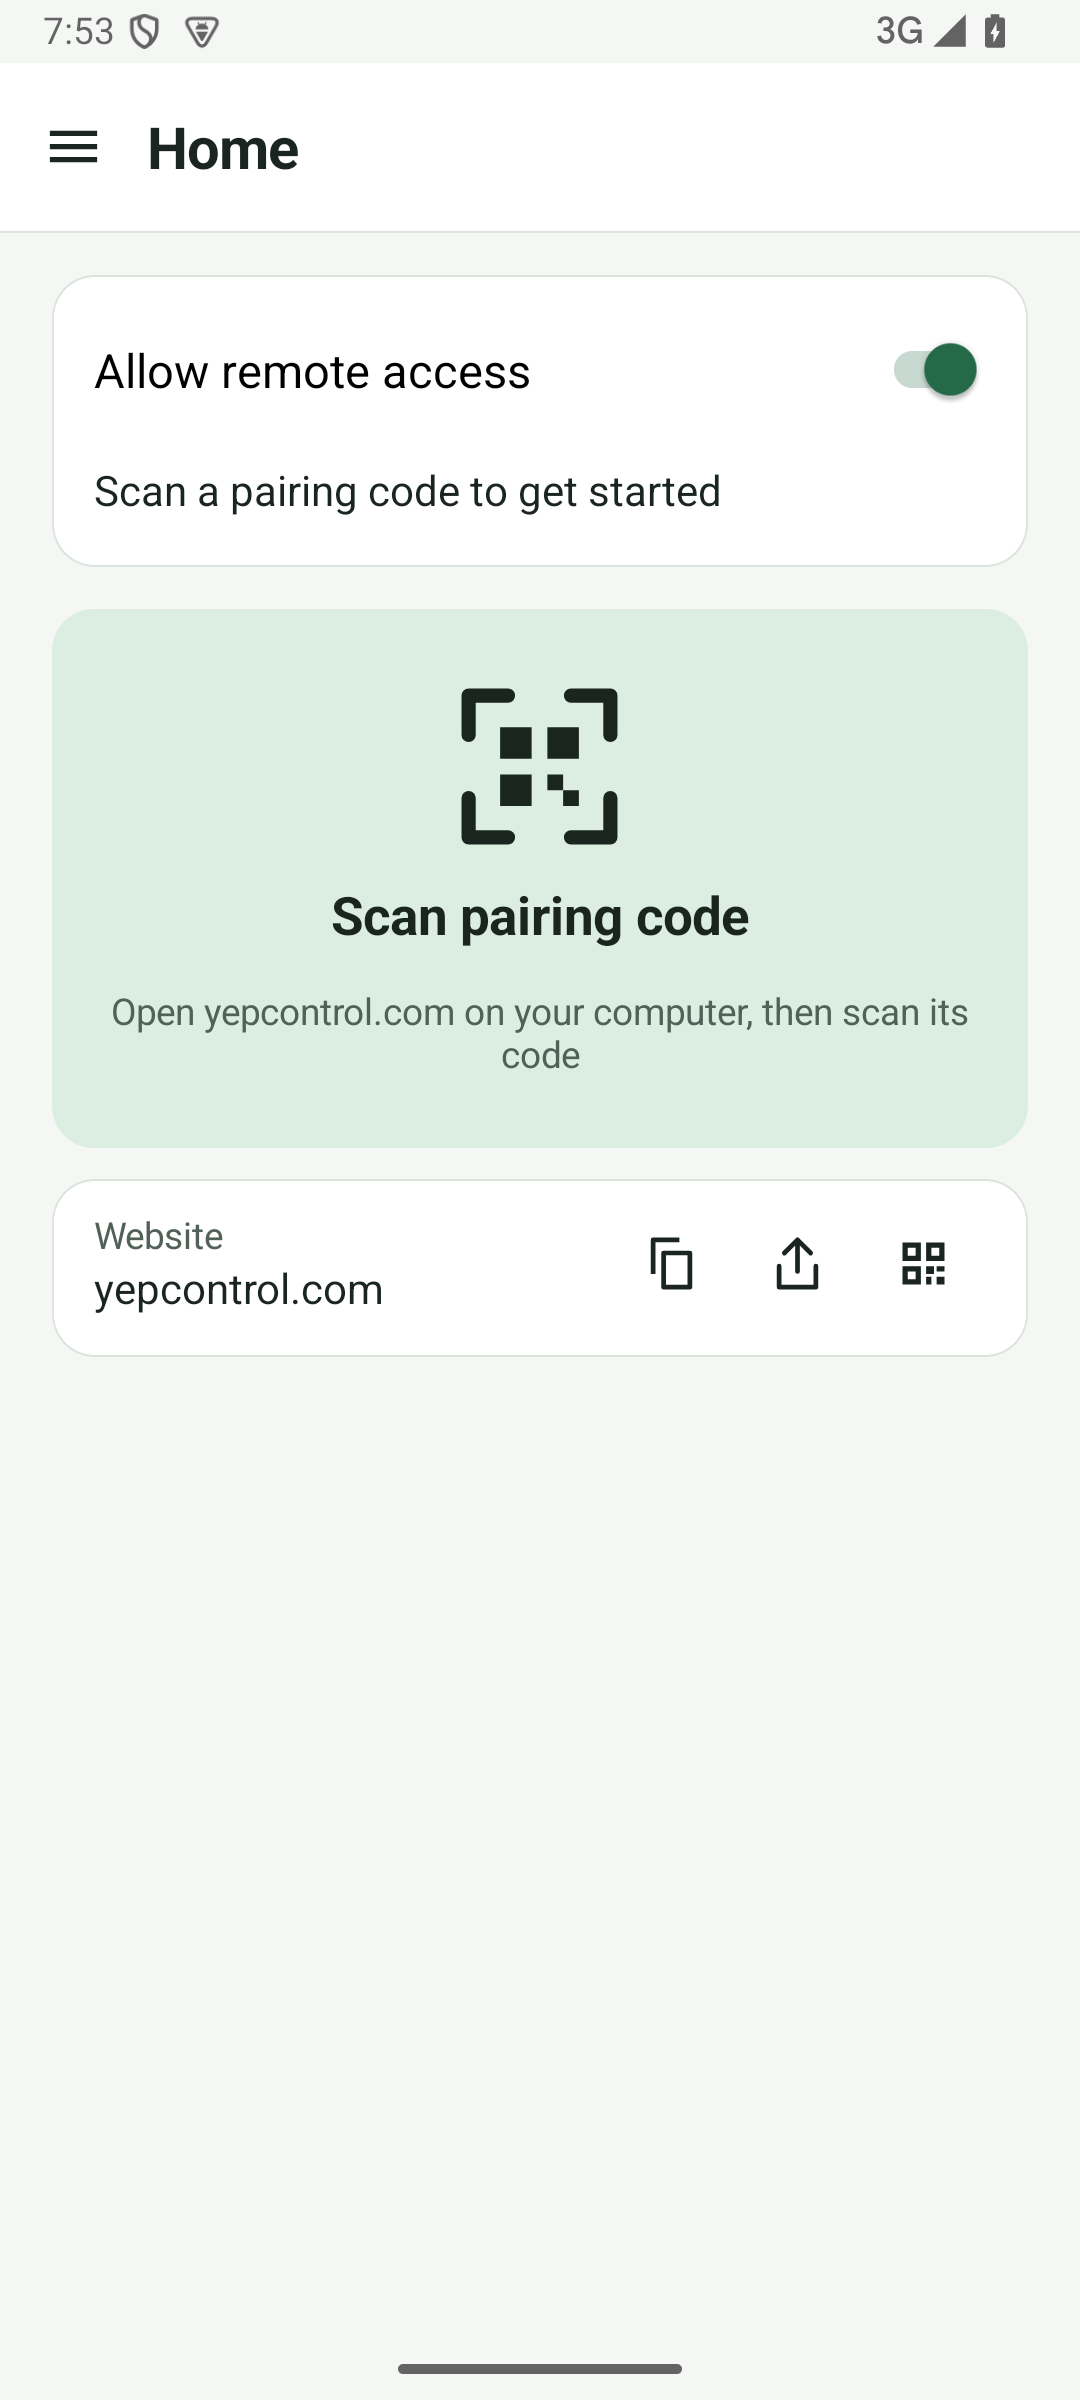
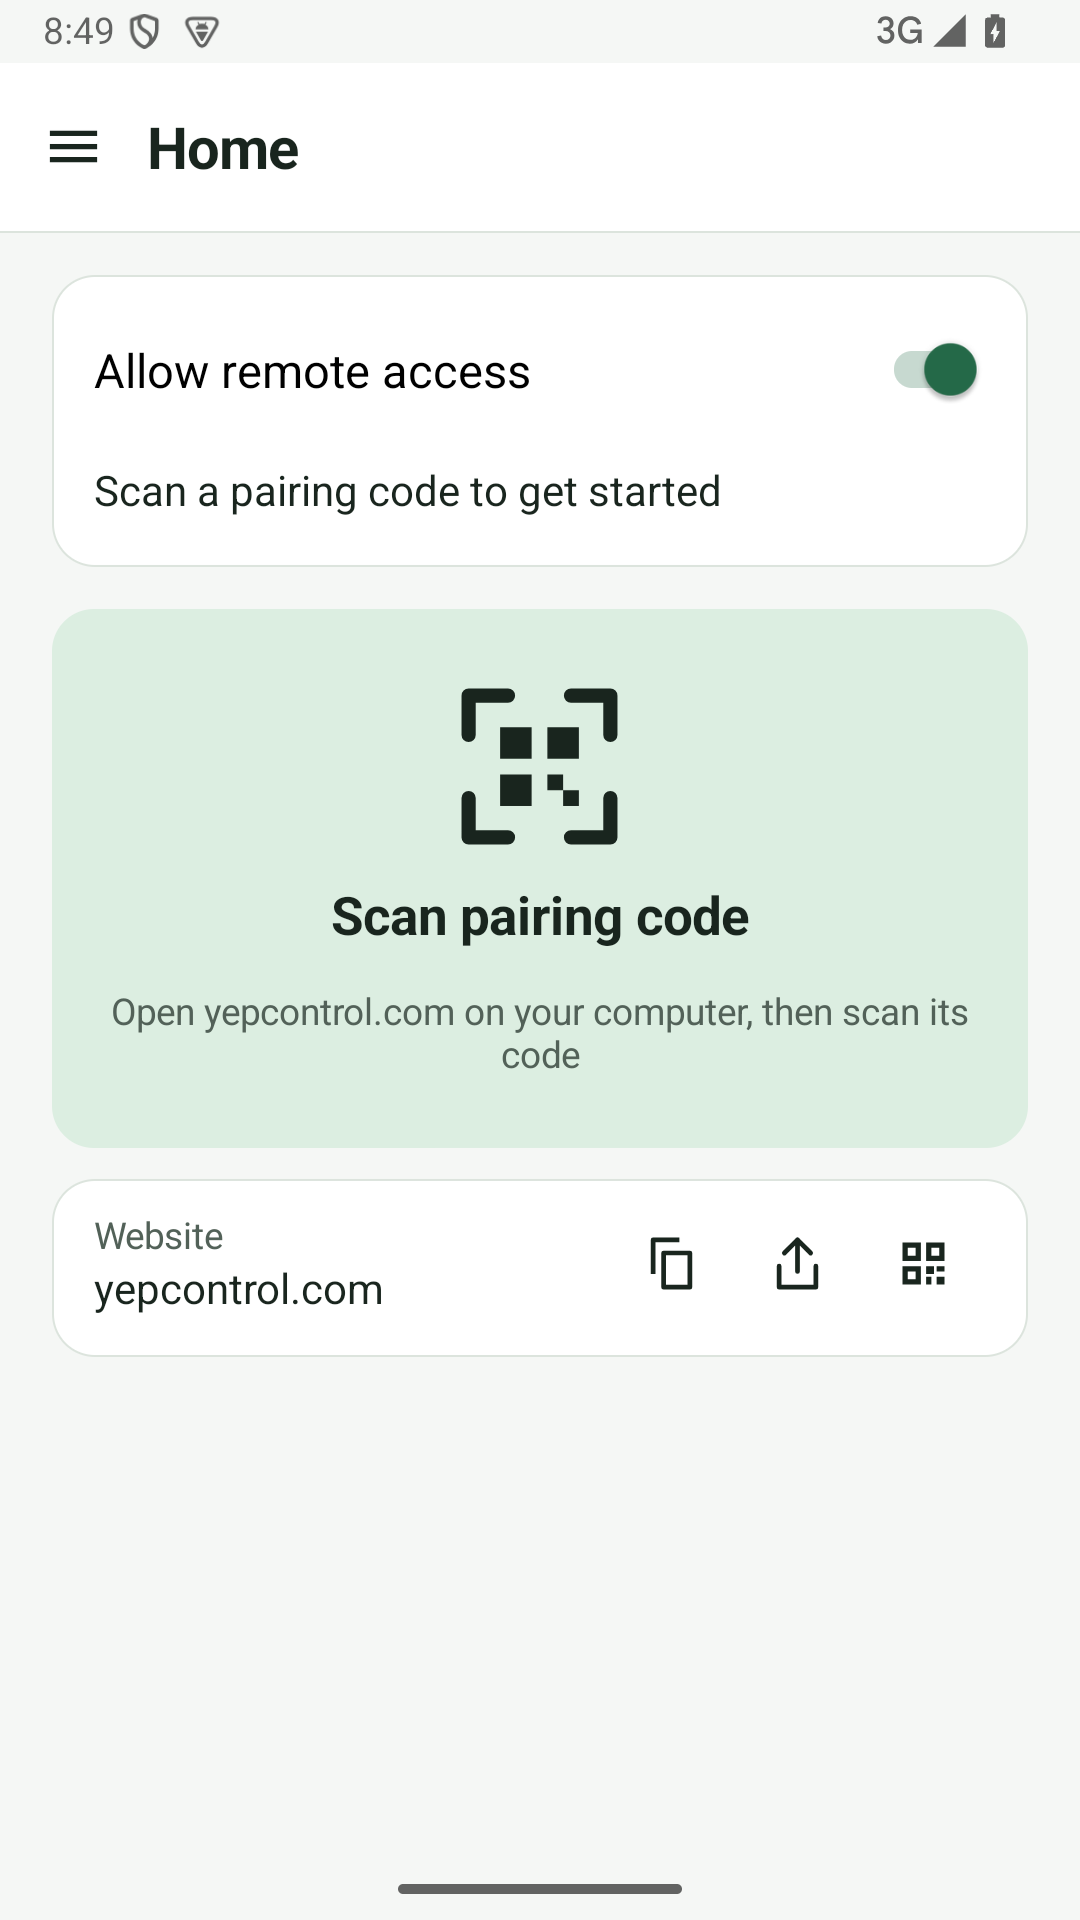
Capture native Play screenshots at the required 9:16 ratio
Contributing-model: GPT-6

diff --git a/scripts/mobile-ui-acceptance.ts b/scripts/mobile-ui-acceptance.ts
@@ -100,6 +100,8 @@ try {
   }
   assert.ok(booted, "Owned emulator did not boot");
   assert.equal(adb("shell", "getprop", "ro.kernel.qemu"), "1");
+  // Match Play's 9:16 screenshot format on this disposable emulator.
+  adb("shell", "wm", "size", "1080x1920");
   adb("shell", "input", "keyevent", "KEYCODE_WAKEUP");
   adb("shell", "wm", "dismiss-keyguard");
   for (const apk of [

diff --git a/docs/distribution/screenshots/README.md b/docs/distribution/screenshots/README.md
@@ -2,7 +2,8 @@
 
 Captured 2026-10-21 from the actual native YepControl app on an owned API-35
 emulator by `pnpm test:mobile-ui`, after the new application ID, icon and privacy
-link were built. These are unmodified screenshots of Home, Settings and
+link were built. The owned fixture uses a 1080 × 1920 display (9:16) to match the Play
+listing requirements. These are unmodified screenshots of Home, Settings and
 Appearance. The fixture has no paired devices, personal data or live pairing
 code. They demonstrate the current UI, not a simulated app or competitor screen.
 Raw test evidence and device selectors remain private under `.local/`.
